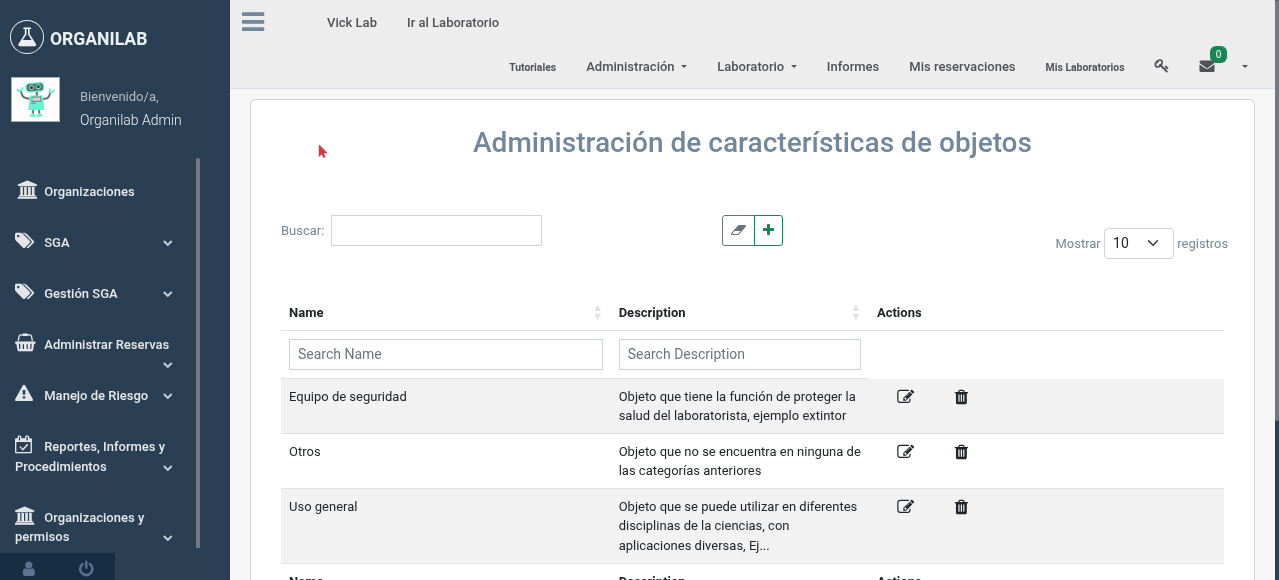
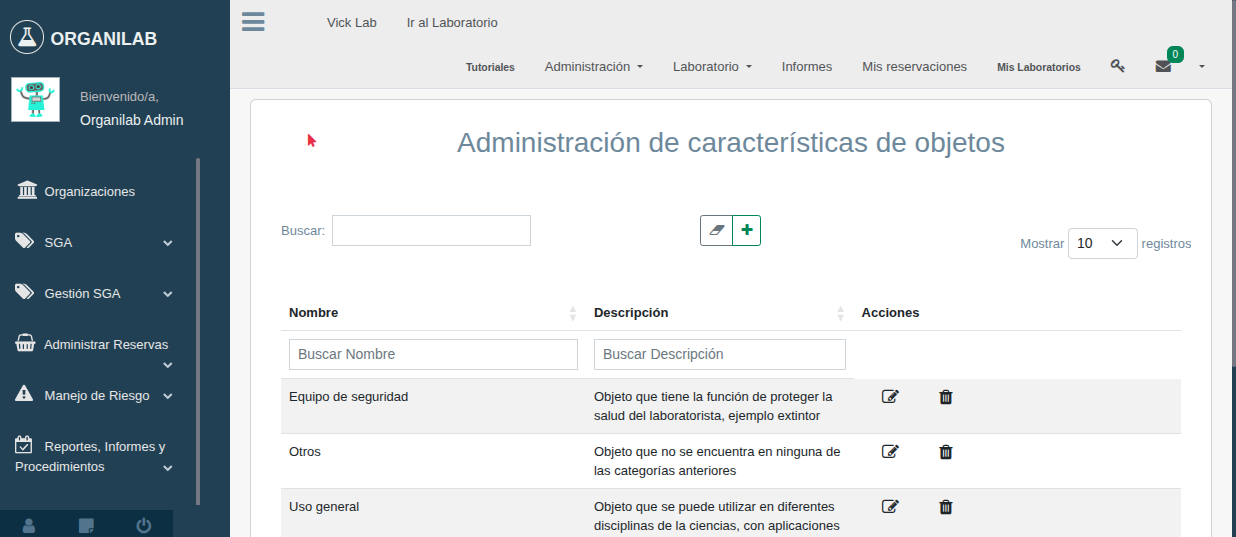
update tests

diff --git a/src/organilab_test/tests/selenium_tests/capacitacion/test_cap2_laboratorios.py b/src/organilab_test/tests/selenium_tests/capacitacion/test_cap2_laboratorios.py
@@ -244,9 +244,10 @@ class Cap2InventoryTest(CapacitacionSeleniumBase):
             {
                 "path": "//body",
                 "sleep": 2,
-            }
+            },
         ]
         self.create_gif_process(path_list, "cap2_view_shelfobject_logs")
+
 
 @tag("selenium")
 class Cap2ReportsTest(CapacitacionSeleniumBase):
@@ -287,3 +288,57 @@ class Cap2ReportsTest(CapacitacionSeleniumBase):
             },
         ]
         self.create_gif_process(path_list, "cap2_pdf_report")
+
+    def test_view_equipment_details(self):
+        """Escenario 2.5: Ver detalles de un objeto en el laboratorio.
+
+        Flujo: Expandir Sala de Almacenamiento -> Expandir mueble ->
+        Seleccionar estante -> Clic en boton ojo de un registro ->
+        Scroll en el modal de detalles.
+
+        GIF: docs/source/_static/gif/cap2_view_shelf_object_details.gif
+        """
+        self.navigate_to_rooms(org_pk=4, lab_pk=1)
+        path_list = [
+            # Expandir Sala de Almacenamiento (labroom pk=1)
+            {
+                "path": "//*[@id='labroom_1']",
+                "sleep": 1,
+            },
+            # Expandir mueble Gabinete Principal (furniture pk=1)
+            {
+                "path": "//*[@id='furniture_1']",
+                "sleep": 1,
+            },
+            # Seleccionar estante Estante Reactivos A (shelf pk=1)
+            {
+                "path": "//*[@id='shelf_1']",
+                "scroll": "window.scrollTo(0, 250)",
+                "sleep": 2,
+            },
+            # Clic en boton ojo (ver detalles) del primer registro de la tabla
+            {
+                "path": "//*[@id='shelfobjecttable']/tbody/tr[1]//a[.//i[contains(@class,'fa-eye')]]",
+                "sleep": 2,
+            },
+            # Scroll en el modal de detalles
+            {
+                "path": "//*[@id='shelfobject_detail_modal_body']",
+                "extra_action": "script",
+                "value": "$('#shelfobject_detail_modal_body').scrollTop(150);",
+                "sleep": 1,
+            },
+            {
+                "path": "//*[@id='shelfobject_detail_modal_body']",
+                "extra_action": "script",
+                "value": "$('#shelfobject_detail_modal_body').scrollTop(300);",
+                "sleep": 1,
+            },
+            {
+                "path": "//*[@id='shelfobject_detail_modal_body']",
+                "extra_action": "script",
+                "value": "$('#shelfobject_detail_modal_body').scrollTop(450);",
+                "sleep": 1,
+            },
+        ]
+        self.create_gif_process(path_list, "cap2_view_shelf_object_details")

diff --git a/src/report/views/reports_org.py b/src/report/views/reports_org.py
@@ -285,13 +285,13 @@ class PrecursorsView(ReportListView):
                     [
                         obj.object.name,
                         obj.measurement_unit.description,
-                        obj.previous_balance,
-                        obj.new_income,
+                        round(obj.new_income, 3),
+                        round(obj.new_income, 3),
                         obj.bills,
                         obj.providers,
-                        obj.stock,
-                        obj.month_expense,
-                        obj.final_balance,
+                        round(obj.stock, 3),
+                        round(obj.month_expense, 3),
+                        round(obj.final_balance, 3),
                         resaon,
                     ]
                 )

diff --git a/src/laboratory/tests/selenium_tests/laboratory_view/shelfobject_detail_actions.py b/src/laboratory/tests/selenium_tests/laboratory_view/shelfobject_detail_actions.py
@@ -14,6 +14,15 @@ class ShelfObjectInfoButtonsActions(ButtonsActionsTableColumnBase):
         self.path_shelfobject_info = self.buttons_actions_path + [
             {"path": "//*[@id='shelfobjecttable']/tbody/tr/td[7]/a[6]"}
         ]
+        self.path_shelfobject_equipment = self.buttons_actions_path + [
+            {"path": "//*[@id='shelfobjecttable']/tbody/tr[2]/td[7]/a[6]"}
+        ]
+
+    def test_view_equipment_details(self):
+        # laboratory/tests/selenium_tests/laboratory_view/shelfobject_detail_actions.py
+        self.create_gif_process(
+            self.path_shelfobject_equipment, "view_shelfobject_equipment"
+        )
 
     def test_change_shelfobject_status(self):
         path_list = [

diff --git a/src/laboratory/tests/selenium_tests/manage_laboratory/test_objects.py b/src/laboratory/tests/selenium_tests/manage_laboratory/test_objects.py
@@ -776,6 +776,7 @@ class ObjectSeleniumTest(ObjectSeleniumBase):
         self.create_gif_process(path_list, "search_reactive_object")
 
 
+# laboratory/tests/selenium_tests/manage_laboratory/test_objects.py
 @tag("selenium")
 class ObjectFeaturesSeleniumTest(ObjectSeleniumBase):
 
